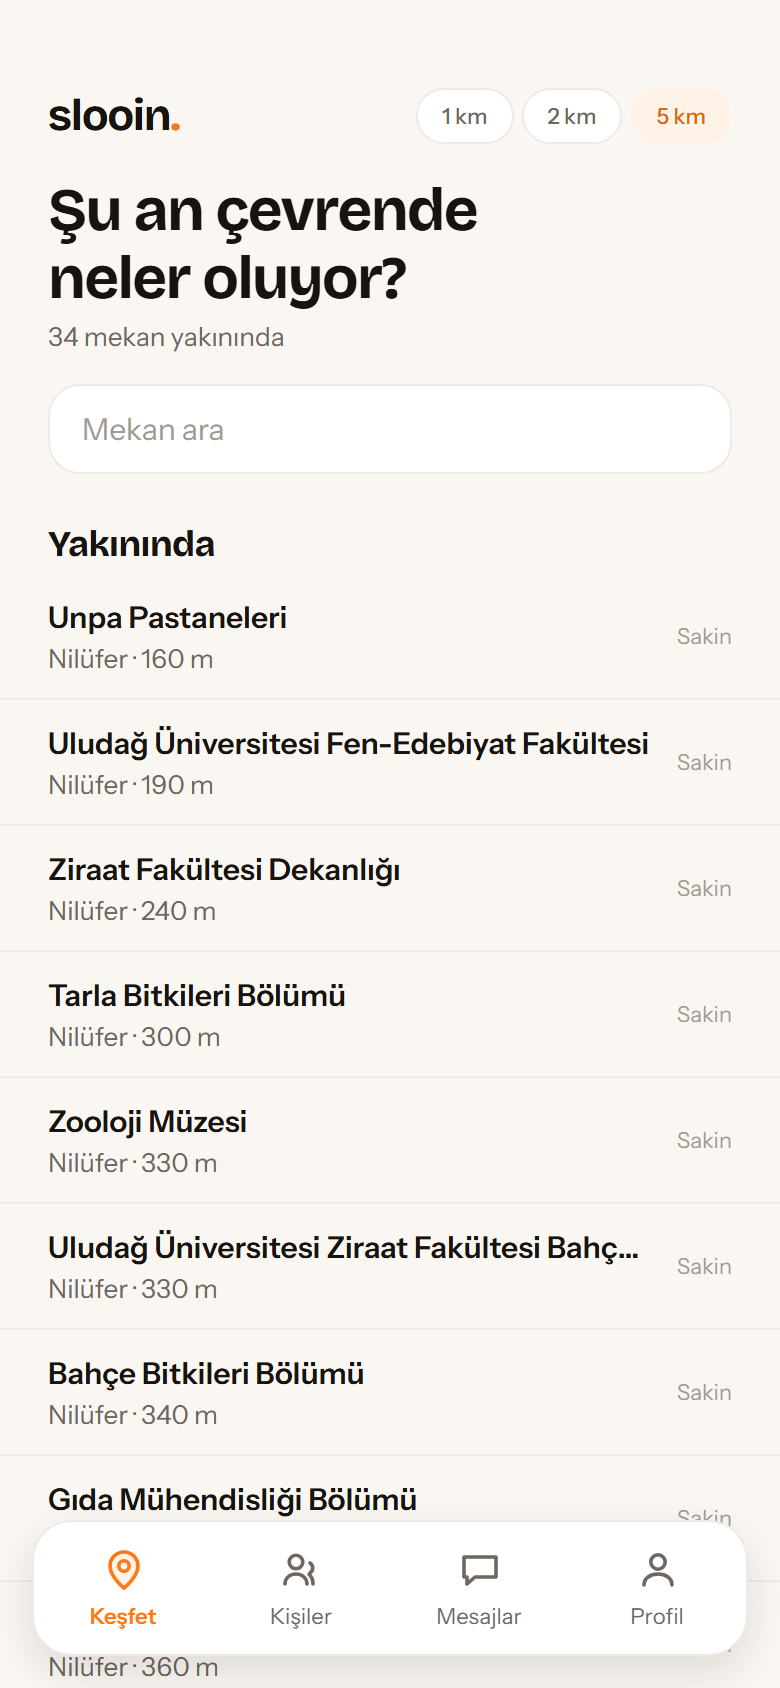
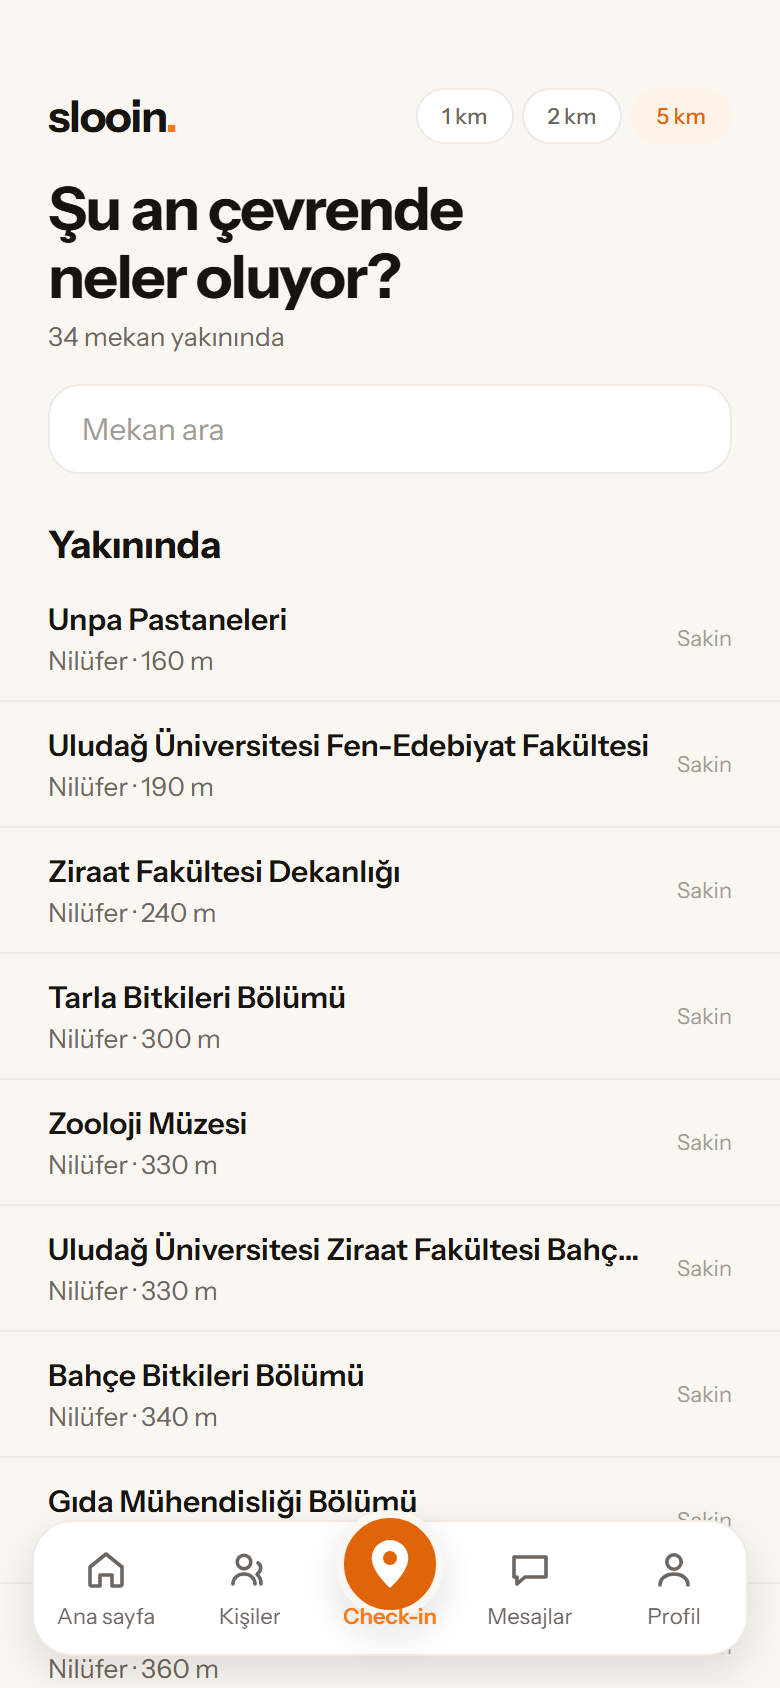
feat(tasarim): alt cubugun ortasina buyuk turuncu check-in dugmesi
Kullanicinin karari (2026-08-26): "ortaya check-in yapma ikonu
koyalim, turuncu belirgin renkte, biraz obirlerinden buyuk" ve
ardindan "Kesfet ikonunu iptal et".

KESFET SEKMESI DUGMEYE DONUSTU, dugme ayrica EKLENMEDI. Iki kisit
vardi: (1) alti slota cikmak cubugun ortasini kaydirirdi;
(2) "Kisiler" cikarilsaydi `/kisiler` oksuz kalirdi - o ekrana cubuk
disinda baska giris yok. Kesfet ise zaten check-in icin mekan
secilen ekran, yani dugme onun isini yapiyor ve tekrar olusmuyor.

Cubuk: Ana sayfa / Kisiler / [CHECK-IN] / Mesajlar / Profil.
Dugme `/mekanlar`a gidiyor, `/mekanlar` ve `/check-in` yollarinda
aktif sayiliyor. 54 px turuncu daire, beyaz konum ignesi, cubugun
18 px uzerine tasiyor; zemin rengi halka ile cubuktan ayriliyor.
Etikete -12 px pay verildi, yoksa daire buyuk oldugu icin komsu
etiketlerden asagida kaliyordu. Icerik payi 96 -> 104.

Testler: jest 51 paket / 442 test yesil, tsc temiz.

diff --git a/mobil/src/tasarim/AltGezinme.tsx b/mobil/src/tasarim/AltGezinme.tsx
@@ -1,4 +1,4 @@
-import { useEffect, useState } from 'react'
+import React, { useEffect, useState } from 'react'
 import { View, Text, Pressable, StyleSheet } from 'react-native'
 import { useRouter, usePathname } from 'expo-router'
 import Svg, { Path, Circle } from 'react-native-svg'
@@ -17,10 +17,21 @@ import { renk, yazi, olcek, bosluk, yuvarlak, golge } from './tema'
  * Cubuk YUZUYOR (kenarlardan bosluklu, yuvarlak, golgeli). Bu, kimlik
  * kararlarinda zaten yaziliydi (bkz. tema.ts basligi).
  *
- * Dort sekme: Kesfet / Kisiler / Mesajlar / Profil. Swarm'daki gibi
- * ortada buyuk bir check-in dugmesi KONMADI, cunku Slooin'de check-in
- * bir mekan secilerek yapiliyor - o dugme kullaniciyi yine ayni
- * kesfet listesine goturur ve sekmeyi tekrarlardi.
+ * ORTADA BUYUK CHECK-IN DUGMESI VAR (kullanicinin karari 2026-08-26:
+ * "ortaya check-in yapma ikonu koyalim, turuncu belirgin renkte,
+ * biraz obirlerinden buyuk"). Onceki notta "konmadi, cunku kesfet
+ * sekmesini tekrarlardi" yaziyordu; cozum dugmeyi eklemek DEGIL,
+ * KESFET SEKMESINI DUGMEYE DONUSTURMEK oldu.
+ *
+ * Neden boyle: Slooin'de check-in bir mekan secilerek yapiliyor ve o
+ * secim ekrani zaten Kesfet. Dugme ayri bir sekme olarak eklenseydi
+ * ya cubuk alti slota cikacak ve ortasi kaymis olacakti, ya da
+ * "Kisiler" cikarilacakti - ama `/kisiler` ekranina cubuk disinda
+ * baska giris yok, cikarilsa oksuz kalirdi.
+ *
+ * Sonuc: Ana sayfa / Kisiler / [CHECK-IN] / Mesajlar / Profil.
+ * Dugme `/mekanlar`a gidiyor; `/mekanlar` ve `/check-in` yollarinda
+ * aktif sayiliyor.
  */
 
 type Sekme = {
@@ -50,22 +61,6 @@ const SEKMELER: Sekme[] = [
           fill={aktif ? renk.turuncuZemin : 'none'}
           strokeLinejoin="round"
         />
-      </Svg>
-    ),
-  },
-  {
-    ad: 'Keşfet',
-    yol: '/mekanlar',
-    onEk: '/mekanlar',
-    ikon: (aktif) => (
-      <Svg width={24} height={24} viewBox="0 0 24 24">
-        <Path
-          d="M12 21s7-5.6 7-11a7 7 0 1 0-14 0c0 5.4 7 11 7 11z"
-          stroke={ikonRengi(aktif)}
-          strokeWidth={1.8}
-          fill={aktif ? renk.turuncuZemin : 'none'}
-        />
-        <Circle cx={12} cy={10} r={2.6} stroke={ikonRengi(aktif)} strokeWidth={1.8} fill="none" />
       </Svg>
     ),
   },
@@ -128,6 +123,40 @@ const SEKMELER: Sekme[] = [
   },
 ]
 
+/**
+ * Ortadaki check-in dugmesi.
+ *
+ * Sekme degil EYLEM: turuncu dolu daire, beyaz konum ignesi. Diger
+ * ikonlar 24 px cizgi, bu 30 px dolu ve daire 54 px - kullanicinin
+ * istegi "biraz obirlerinden buyuk". Turuncunun burada mesru oldugu
+ * acik: hem tiklanabilir hem de uygulamanin ana eylemi (bkz. tema.ts
+ * "turuncu yalnizca eylem ve canlilik icin").
+ */
+function CheckInDugmesi({ aktif, onPress }: { aktif: boolean; onPress: () => void }) {
+  return (
+    <Pressable
+      style={stiller.merkez}
+      onPress={onPress}
+      accessibilityRole="button"
+      accessibilityState={{ selected: aktif }}
+      accessibilityLabel="Check-in yap"
+    >
+      <View style={[stiller.merkezDaire, aktif && stiller.merkezDaireAktif]}>
+        <Svg width={30} height={30} viewBox="0 0 24 24">
+          <Path
+            d="M12 2.4a7.3 7.3 0 0 0-7.3 7.3c0 5.5 7.3 11.9 7.3 11.9s7.3-6.4 7.3-11.9A7.3 7.3 0 0 0 12 2.4z"
+            fill="#FFFFFF"
+          />
+          <Circle cx={12} cy={9.6} r={2.8} fill={aktif ? renk.turuncuKoyu : renk.turuncu} />
+        </Svg>
+      </View>
+      <Text style={stiller.merkezEtiket} numberOfLines={1}>
+        Check-in
+      </Text>
+    </Pressable>
+  )
+}
+
 export function AltGezinme() {
   const router = useRouter()
   const yol = usePathname()
@@ -155,14 +184,24 @@ export function AltGezinme() {
   return (
     <View style={stiller.kapsayici} pointerEvents="box-none">
       <View style={stiller.cubuk}>
-        {SEKMELER.map((s) => {
+        {SEKMELER.map((s, sira) => {
+          // Dugme ORTAYA giriyor: iki sekme solda, iki sekme sagda.
+          const merkez =
+            sira === 2 ? (
+              <CheckInDugmesi
+                key="check-in"
+                aktif={yol.startsWith('/mekanlar') || yol.startsWith('/check-in')}
+                onPress={() => router.replace('/mekanlar' as never)}
+              />
+            ) : null
           // Ana sayfanin oneki "/" oldugu icin startsWith her yolu
           // eslestirirdi; o sekme yalnizca tam eslesmede aktif.
           const aktif = s.onEk === '/' ? yol === '/' : yol.startsWith(s.onEk)
           const rozet = s.yol === '/mesajlar' ? okunmamisMesaj : 0
           return (
+            <React.Fragment key={s.yol}>
+            {merkez}
             <Pressable
-              key={s.yol}
               style={stiller.sekme}
               onPress={() => router.replace(s.yol as never)}
               accessibilityRole="tab"
@@ -184,6 +223,7 @@ export function AltGezinme() {
                 {s.ad}
               </Text>
             </Pressable>
+            </React.Fragment>
           )
         })}
       </View>
@@ -192,7 +232,7 @@ export function AltGezinme() {
 }
 
 /** Cubugun altinda kalmamasi icin sayfa iceriginin birakmasi gereken pay. */
-export const ALT_GEZINME_PAYI = 96
+export const ALT_GEZINME_PAYI = 104
 
 const stiller = StyleSheet.create({
   kapsayici: {
@@ -213,6 +253,33 @@ const stiller = StyleSheet.create({
     ...golge.yuzer,
   },
   sekme: { flex: 1, alignItems: 'center', gap: 4, paddingHorizontal: 2 },
+
+  // Merkez dugme cubugun USTUNE tasiyor: buyuklugu ancak boyle
+  // gorunuyor, yoksa cubugun ic yuksekligi onu diger ikonlarla ayni
+  // hizaya sikistiriyor.
+  merkez: { flex: 1, alignItems: 'center', gap: 4, marginTop: -18 },
+  merkezDaire: {
+    width: 54,
+    height: 54,
+    borderRadius: 27,
+    backgroundColor: renk.turuncu,
+    alignItems: 'center',
+    justifyContent: 'center',
+    // Cubukla arasinda ince bir zemin halkasi: dugme cubugun uzerine
+    // tasidiginda kenari kayboluyordu.
+    borderWidth: 4,
+    borderColor: renk.zemin,
+    ...golge.yuzer,
+  },
+  merkezDaireAktif: { backgroundColor: renk.turuncuKoyu },
+  merkezEtiket: {
+    fontFamily: yazi.govdeKalin,
+    fontSize: olcek.minik,
+    color: renk.turuncu,
+    // Daire diger ikonlardan 30 px buyuk ve 18 px yukarida; etiket
+    // aksi halde komsu etiketlerden 12 px asagida kaliyor.
+    marginTop: -12,
+  },
   etiket: {
     fontFamily: yazi.govde,
     fontSize: olcek.minik,
